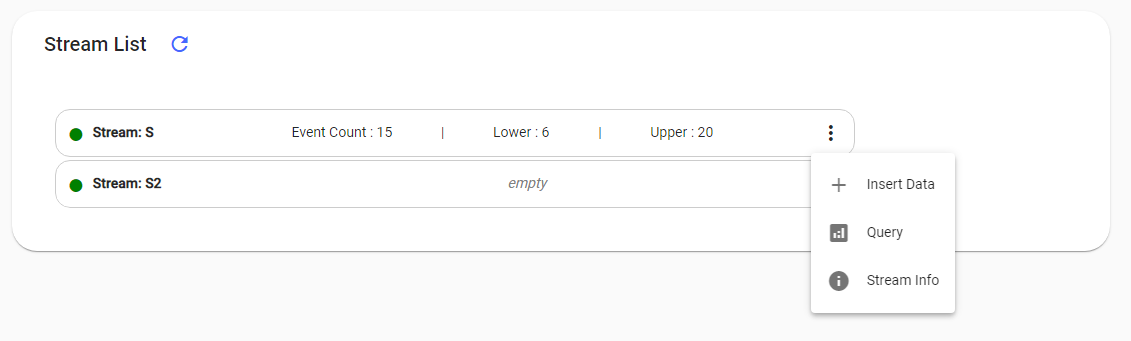
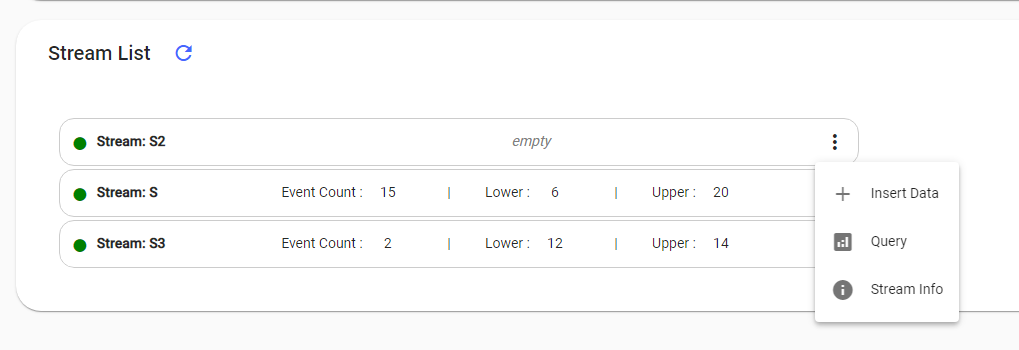
Java Stream List schöner gemacht

diff --git a/chronicleDB-admin/src/app/java/java-stream-list/java-stream-list.component.html b/chronicleDB-admin/src/app/java/java-stream-list/java-stream-list.component.html
@@ -7,15 +7,15 @@
             <ng-container *ngIf="stream.timeInterval">
                 <!-- |
                 <div class="filler"></div> -->
-                Event Count : {{ stream.eventCount }}
+                Event Count : <span style="min-width: 50px; text-align: center; ">{{ stream.eventCount }}</span>
                 <div class="filler"></div>
                 |
                 <div class="filler"></div>
-                Lower : {{ stream.timeInterval?.lower }}
+                Lower : <span style="min-width: 50px; text-align: center; ">{{ stream.timeInterval?.lower }}</span>
                 <div class="filler"></div>
                 |
                 <div class="filler"></div>
-                Upper : {{ stream.timeInterval?.upper }}
+                Upper : <span style="min-width: 50px; text-align: center;">{{ stream.timeInterval?.upper }}</span>
                 <div class="filler"></div>
             </ng-container>
             <ng-container *ngIf="!stream.timeInterval">
